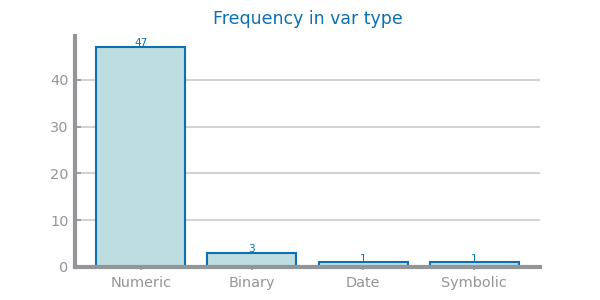
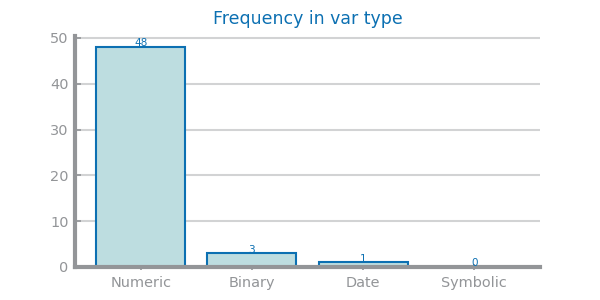
DS2: changes to data type/ progress on granularity

diff --git a/droughtDataset/lab1/data_distribution.py b/droughtDataset/lab1/data_distribution.py
@@ -20,7 +20,7 @@ def get_variable_types(data) -> dict:
         'Date': [],
         'Symbolic': []
     }
-    for c in data.columns[1:]:
+    for c in data.columns:
         uniques = data[c].dropna(inplace=False).unique()
 
         if len(uniques) == 2:
@@ -36,8 +36,8 @@ def get_variable_types(data) -> dict:
 
 
 #FIPS is a county code, so its symbolic
-    data["fips"].astype('category')
-    variable_types['Symbolic'].append(data["fips"])
+    # data["fips"].astype('category')
+    # variable_types['Symbolic'].append(data["fips"])
     return variable_types
 
 
@@ -56,27 +56,27 @@ data = data[variable_types['Numeric']]
 #
 # data.boxplot(rot=45)
 # savefig('images/global_boxplot.png')
-# # show()
-#
-#
-#SINGLE BOXPLOTS
-from matplotlib.pyplot import savefig, show, subplots
-from ds_charts import get_variable_types, choose_grid, HEIGHT
-
-numeric_vars = get_variable_types(data)['Numeric']
-if [] == numeric_vars:
-    raise ValueError('There are no numeric variables.')
-rows, cols = choose_grid(len(numeric_vars))
-fig, axs = subplots(rows, cols, figsize=(cols*HEIGHT, rows*HEIGHT), squeeze=False)
-i, j = 0, 0
-for n in range(len(numeric_vars)):
-    axs[i, j].set_title('Boxplot for %s'%numeric_vars[n])
-    axs[i, j].boxplot(data[numeric_vars[n]].dropna().values)
-    i, j = (i + 1, 0) if (n+1) % cols == 0 else (i, j + 1)
-savefig('images/single_boxplots.png')
 # show()
-
-
+# #
+#
+# #SINGLE BOXPLOTS
+# from matplotlib.pyplot import savefig, show, subplots
+# from ds_charts import get_variable_types, choose_grid, HEIGHT
+#
+# numeric_vars = get_variable_types(data)['Numeric']
+# if [] == numeric_vars:
+#     raise ValueError('There are no numeric variables.')
+# rows, cols = choose_grid(len(numeric_vars))
+# fig, axs = subplots(rows, cols, figsize=(cols*HEIGHT, rows*HEIGHT), squeeze=False)
+# i, j = 0, 0
+# for n in range(len(numeric_vars)):
+#     axs[i, j].set_title('Boxplot for %s'%numeric_vars[n])
+#     axs[i, j].boxplot(data[numeric_vars[n]].dropna().values)
+#     i, j = (i + 1, 0) if (n+1) % cols == 0 else (i, j + 1)
+# savefig('images/single_boxplots.png')
+# show()
+#
+#
 # #OUTLIERS
 # from matplotlib.pyplot import figure, savefig, show
 # from ds_charts import get_variable_types, multiple_bar_chart, HEIGHT
@@ -106,9 +106,9 @@ savefig('images/single_boxplots.png')
 # multiple_bar_chart(numeric_vars, outliers, title='Nr of outliers per variable', xlabel='variables', ylabel='nr outliers', percentage=False)
 # savefig('images/outliers.png')
 # show()
-
-
-#HISTOGRAMS
+#
+#
+# HISTOGRAMS
 
 # from matplotlib.pyplot import savefig, show, subplots
 # from ds_charts import get_variable_types, choose_grid, HEIGHT
@@ -117,6 +117,7 @@ savefig('images/single_boxplots.png')
 # if [] == numeric_vars:
 #     raise ValueError('There are no numeric variables.')
 #
+# rows, cols = choose_grid(len(numeric_vars))
 # fig, axs = subplots(rows, cols, figsize=(cols*HEIGHT, rows*HEIGHT), squeeze=False)
 # i, j = 0, 0
 # for n in range(len(numeric_vars)):
@@ -146,45 +147,46 @@ savefig('images/single_boxplots.png')
 #     i, j = (i + 1, 0) if (n+1) % cols == 0 else (i, j + 1)
 # savefig('images/histograms_trend_numeric.png')
 # show()
-
-
-#DISTRIBUTION REAL SHIT LETS GO
-from numpy import log
-from pandas import Series
-from scipy.stats import norm, expon, lognorm
-from matplotlib.pyplot import savefig, show, subplots, Axes
-from ds_charts import HEIGHT, multiple_line_chart, get_variable_types
-
-def compute_known_distributions(x_values: list) -> dict:
-    distributions = dict()
-    # Gaussian
-    mean, sigma = norm.fit(x_values)
-    distributions['Normal(%.1f,%.2f)'%(mean,sigma)] = norm.pdf(x_values, mean, sigma)
-    # Exponential
-    loc, scale = expon.fit(x_values)
-    distributions['Exp(%.2f)'%(1/scale)] = expon.pdf(x_values, loc, scale)
-    # LogNorm
-    sigma, loc, scale = lognorm.fit(x_values)
-    distributions['LogNor(%.1f,%.2f)'%(log(scale),sigma)] = lognorm.pdf(x_values, sigma, loc, scale)
-    return distributions
-
-def histogram_with_distributions(ax: Axes, series: Series, var: str):
-    values = series.sort_values().values
-    ax.hist(values, 20, density=True)
-    distributions = compute_known_distributions(values)
-    multiple_line_chart(values, distributions, ax=ax, title='Best fit for %s'%var, xlabel=var, ylabel='')
-
-numeric_vars = get_variable_types(data)['Numeric']
-if [] == numeric_vars:
-    raise ValueError('There are no numeric variables.')
-
-fig, axs = subplots(rows, cols, figsize=(cols*HEIGHT, rows*HEIGHT), squeeze=False)
-i, j = 0, 0
-for n in range(len(numeric_vars)):
-    print(n)
-    histogram_with_distributions(axs[i, j], data[numeric_vars[n]].dropna(), numeric_vars[n])
-    i, j = (i + 1, 0) if (n+1) % cols == 0 else (i, j + 1)
-savefig('diabetesDataset/lab1/images/histogram_numeric_distribution.png')
-show()
+#
+#
+# #DISTRIBUTION REAL SHIT LETS GO
+# from numpy import log
+# from pandas import Series
+# from scipy.stats import norm, expon, lognorm
+# from matplotlib.pyplot import savefig, show, subplots, Axes
+# from ds_charts import HEIGHT, multiple_line_chart, get_variable_types
+# from ds_charts import get_variable_types, choose_grid, HEIGHT
+# numeric_vars = get_variable_types(data)['Numeric']
+# rows, cols = choose_grid(len(numeric_vars))
+# def compute_known_distributions(x_values: list) -> dict:
+#     distributions = dict()
+#     # Gaussian
+#     mean, sigma = norm.fit(x_values)
+#     distributions['Normal(%.1f,%.2f)'%(mean,sigma)] = norm.pdf(x_values, mean, sigma)
+#     # Exponential
+#     loc, scale = expon.fit(x_values)
+#     distributions['Exp(%.2f)'%(1/scale)] = expon.pdf(x_values, loc, scale)
+#     # LogNorm
+#     sigma, loc, scale = lognorm.fit(x_values)
+#     distributions['LogNor(%.1f,%.2f)'%(log(scale),sigma)] = lognorm.pdf(x_values, sigma, loc, scale)
+#     return distributions
+#
+# def histogram_with_distributions(ax: Axes, series: Series, var: str):
+#     values = series.sort_values().values
+#     ax.hist(values, 20, density=True)
+#     distributions = compute_known_distributions(values)
+#     multiple_line_chart(values, distributions, ax=ax, title='Best fit for %s'%var)
+#
+# if [] == numeric_vars:
+#     raise ValueError('There are no numeric variables.')
+#
+# fig, axs = subplots(rows, cols, figsize=(cols*HEIGHT, rows*HEIGHT), squeeze=False)
+# i, j = 0, 0
+# for n in range(1, 19):
+#     print(n)
+#     histogram_with_distributions(axs[i, j], data[numeric_vars[n]].dropna(), numeric_vars[n])
+#     i, j = (i + 1, 0) if (n+1) % cols == 0 else (i, j + 1)
+# savefig('diabetesDataset/lab1/images/histogram_numeric_distribution.png')
+# show()
 
 

diff --git a/droughtDataset/lab1/data_granularity.py b/droughtDataset/lab1/data_granularity.py
@@ -1,0 +1,50 @@
+import pandas as pd
+from pandas.plotting import register_matplotlib_converters
+from matplotlib.pyplot import figure, savefig, show
+from ds_charts import bar_chart
+from ds_charts import get_variable_types, choose_grid, HEIGHT
+from matplotlib.pyplot import subplots, savefig, show
+from ds_charts import get_variable_types, HEIGHT
+from matplotlib.pyplot import subplots, savefig, show
+
+register_matplotlib_converters()
+
+# kaggleOGData = pd.read_csv('../kaggleDataset.csv')
+data = pd.read_csv('../drought.csv', na_values='?')
+data['date'] = pd.to_datetime(data['date'], format = '%d/%m/%Y')
+
+values = {'nr records': data.shape[0], 'nr variables': data.shape[1]}
+
+# variables = get_variable_types(data)['Numeric']
+# if [] == variables:
+#     raise ValueError('There are no numeric variables.')
+#
+# rows, cols = choose_grid(len(variables))
+# fig, axs = subplots(rows, cols, figsize=(cols*HEIGHT, rows*HEIGHT), squeeze=False)
+# i, j = 0, 0
+# for n in range(len(variables)):
+#     axs[i, j].set_title('Histogram for %s'%variables[n])
+#     axs[i, j].set_xlabel(variables[n])
+#     axs[i, j].set_ylabel('nr records')
+#     axs[i, j].hist(data[variables[n]].values, bins=100)
+#     i, j = (i + 1, 0) if (n+1) % cols == 0 else (i, j + 1)
+# savefig('images/granularity_single.png')
+# show()
+
+#GRANULARITY PARA TODOS ISTO VAI CORRER MAL
+variables = get_variable_types(data)['Numeric']
+if [] == variables:
+    raise ValueError('There are no numeric variables.')
+
+rows = len(variables)
+bins = (10, 100, 1000)
+cols = len(bins)
+fig, axs = subplots(rows, cols, figsize=(cols*HEIGHT, rows*HEIGHT), squeeze=False)
+for i in range(rows):
+    for j in range(cols):
+        axs[i, j].set_title('Histogram for %s %d bins'%(variables[i], bins[j]))
+        axs[i, j].set_xlabel(variables[i])
+        axs[i, j].set_ylabel('Nr records')
+        axs[i, j].hist(data[variables[i]].values, bins=bins[j])
+savefig('images/granularity_study.png')
+# show()

diff --git a/droughtDataset/lab1/data_dimensionality.py b/droughtDataset/lab1/data_dimensionality.py
@@ -32,7 +32,7 @@ def get_variable_types(data) -> dict:
         'Date': [],
         'Symbolic': []
     }
-    for c in data.columns[1:]:
+    for c in data.columns:
         uniques = data[c].dropna(inplace=False).unique()
 
         if len(uniques) == 2:
@@ -47,9 +47,9 @@ def get_variable_types(data) -> dict:
             variable_types['Symbolic'].append(c)
 
 
-#FIPS is a county code, so its symbolic
-    data["fips"].astype('category')
-    variable_types['Symbolic'].append(data["fips"])
+# #FIPS is a county code, so its symbolic
+#     data["fips"].astype('category')
+#     variable_types['Symbolic'].append(data["fips"])
     return variable_types
 
 
